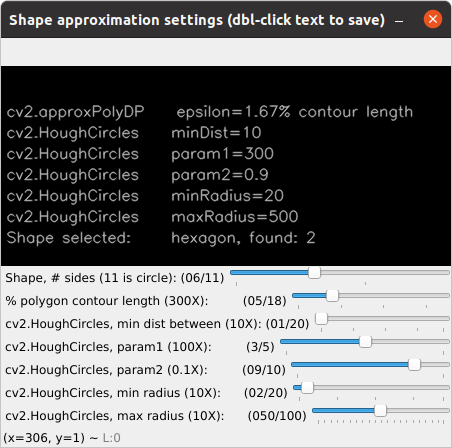
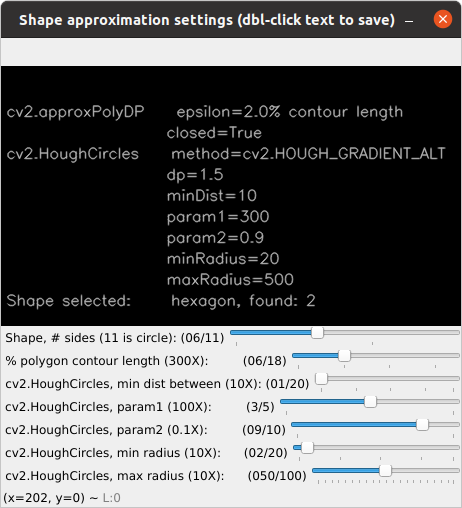
ver 0.0.33: report additional shape approx parameters; update README.md screenshots

diff --git a/shape_it.py b/shape_it.py
@@ -205,7 +205,6 @@ class ProcessImage:
         side_by_side = cv2.hconcat(
             [self.input_img, cv2.cvtColor(self.gray_img, cv2.COLOR_GRAY2RGB)])
 
-
         cv2.imshow(win_name, side_by_side)
 
     def setup_trackbars(self) -> None:
@@ -1143,11 +1142,14 @@ class ProcessImage:
 
         shape_txt = (
             f'{"cv2.approxPolyDP".ljust(20)}epsilon={epsilon_pct}% contour length\n'
-            f'{"cv2.HoughCircles".ljust(20)}minDist={self.circles_mindist}\n'
-            f'{"cv2.HoughCircles".ljust(20)}param1={self.circles_param1}\n'
-            f'{"cv2.HoughCircles".ljust(20)}param2={self.circles_param2}\n'
-            f'{"cv2.HoughCircles".ljust(20)}minRadius={self.circles_min_radius}\n'
-            f'{"cv2.HoughCircles".ljust(20)}maxRadius={self.circles_max_radius}\n'
+            f'{" ".ljust(20)}closed=True\n'
+            f'{"cv2.HoughCircles".ljust(20)}method=cv2.HOUGH_GRADIENT_ALT\n'
+            f'{" ".ljust(20)}dp=1.5\n'
+            f'{" ".ljust(20)}minDist={self.circles_mindist}\n'
+            f'{" ".ljust(20)}param1={self.circles_param1}\n'
+            f'{" ".ljust(20)}param2={self.circles_param2}\n'
+            f'{" ".ljust(20)}minRadius={self.circles_min_radius}\n'
+            f'{" ".ljust(20)}maxRadius={self.circles_max_radius}\n'
             f'{"Shape selected:".ljust(20)}{self.polygon}, found: {self.num_shapes}\n'
         )
 
@@ -1165,11 +1167,11 @@ class ProcessImage:
             settings_img = utils.text_array((820, 1200), the_text)
 
         if utils.MY_OS == 'lin':
-            shape_settings_img = utils.text_array((200, 450), shape_txt)
+            shape_settings_img = utils.text_array((260, 460), shape_txt)
         elif utils.MY_OS == 'dar':
-            shape_settings_img = utils.text_array((175, 420), shape_txt)
+            shape_settings_img = utils.text_array((225, 430), shape_txt)
         else:  # is Windows
-            shape_settings_img = utils.text_array((410, 700), shape_txt)
+            shape_settings_img = utils.text_array((460, 700), shape_txt)
 
         cv2.imshow(self.contour_tb_win, settings_img)
         cv2.imshow(self.shape_tb_win, shape_settings_img)

diff --git a/README.md b/README.md
@@ -90,21 +90,28 @@ Opening windows for `thresh_it.py` with the `sample3.jpg` input file.
 
 All available threshold parameters.
 
+![edge_it_settings_window](images/edges_settings_screenshot.png)
+
+All available Canny edges parameters.
+
 ![ID_objects_window](images/objects_screenshot.png)
 
 Expanded window for identified threshold objects and their comparative pixel sizes with default `thresh_it.py` settings. Input file is `sample3.jpg`.
+
+![found_hexagon_shapes](images/found_hexagon_screenshot.png)
+
+Identified hexagon shapes in `sample4.jpg` are outlined in yellow with `shape_it.py`.
+
+![shape_settings_window](images/shape_settings_screenshot.png)
+
+Shape approximation parameters used to identify hexagons.
 
 ![clahe_histograms](images/clahe_screenshot.png)
 
 Histograms and CLAHE windows will live update with CLAHE parameter sliders.
 
-![found_histogram_shape](images/found_hexagon_screenshot.png)
-
-Identified hstogram shapes in `sample4.jpg` are outlined in yellow with `shape_it.py` (above) using "Shape" trackbar set for a six-sided object (below).
-
-![shape_settings_window](images/shape_settings_screenshot.png)
-
 ### Attributions
+
 Source of sample1.jpg image file:
 Adrian Rosebrock at https://pyimagesearch.com/2016/03/28/measuring-size-of-objects-in-an-image-with-opencv/
 
